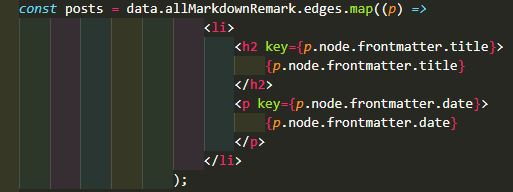
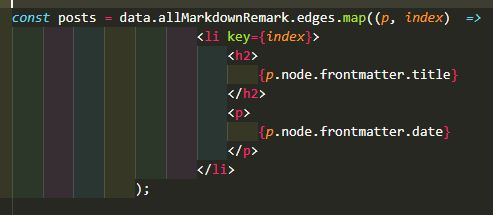
Grab slug for each blog post

diff --git a/src/pages/blog.js b/src/pages/blog.js
@@ -18,22 +18,25 @@ const BlogPage = () => {
             }
         }
     `)
-    const posts = data.allMarkdownRemark.edges.map((p) => 
-                            <li>
-                                <h2 key={p.node.frontmatter.title}>
+    
+    const posts = data.allMarkdownRemark.edges.map((p, index)  => 
+                            <li key={index}>
+                                <h2>
                                     {p.node.frontmatter.title}
                                 </h2>
-                                <p key={p.node.frontmatter.date}>
+                                <p>
                                     {p.node.frontmatter.date}
                                 </p>
                             </li>
-                        );
+                    );
+
     return (
             <Layout>
                 <h1>A blog about the blog</h1>
                 <ol>
                     {posts}
                 </ol>
+
             </Layout>
             
     )

diff --git a/src/components/header.js b/src/components/header.js
@@ -27,13 +27,13 @@ const Header = () => {
                         <Link to="/" className={headerStyles.navItem} activeClassName={headerStyles.activeNavItem}>Home</Link>
                     </li>
                     <li>
+                        <Link to="/blog" className={headerStyles.navItem} activeClassName={headerStyles.activeNavItem}>Blog</Link>
+                    </li>
+                    <li>
                         <Link to="/about" className={headerStyles.navItem} activeClassName={headerStyles.activeNavItem}>About</Link>
                     </li>
                     <li>
                         <Link to="/contact" className={headerStyles.navItem} activeClassName={headerStyles.activeNavItem}>Contact</Link>
-                    </li>
-                    <li>
-                        <Link to="/blog" className={headerStyles.navItem} activeClassName={headerStyles.activeNavItem}>Blog</Link>
                     </li>
                 </ul>
             </nav>

diff --git a/gatsby-node.js b/gatsby-node.js
@@ -1,7 +1,15 @@
-/**
- * Implement Gatsby's Node APIs in this file.
- *
- * See: https://www.gatsbyjs.com/docs/node-apis/
- */
+const path = require('path')
 
-// You can delete this file if you're not using it
+module.exports.onCreateNode = ({ node, actions }) => {
+    const { createNodeField } = actions
+
+    if(node.internal.type === 'MarkdownRemark') {
+        const slug = path.basename(node.fileAbsolutePath, '.md')
+        
+        createNodeField({
+            node,
+            name: 'slug',
+            value: slug
+        })
+    }
+}

diff --git a/src/posts/listposts.md b/src/posts/listposts.md
@@ -9,15 +9,15 @@ Now that I have some blog posts created and the ability to pull and convert them
 
 Using GraphQL Playground I laid out the necessary query to grab the date and title of each blog post.
 To do this I created a const variable called data and using the 'graphql' and 'useStaticQuery' hooks, provided by Gatsby (making sure to first import them from Gatsby at the top of the page),
-I wrote out the query, pictured below.
+I wrote out the query using a template literal, pictured below.
 
 ![Data Query](./images/data-query.jpg)
 
 This allowed me to pull the post title and date to render them in an ordered list on the main blog page.
 Before I was able to display them I first had to map the data to be rendered for each item in the list.
-For this I created another const variable called 'posts' and used the map function on the 'edges' array in the query and saved that under a parameter.
+For this I created another const variable called 'posts' to iterate over the 'edges' array in the query, used the map function to convert it to JSX and saved that under a parameter.
 Using an arrow function I created an li for each post in the array, each li having a h2 tag for the title and a p tag for the date.
-I provided unique keys for the the h2 and p tags to help React identify each element, then using that key I put the title and date to be rendered in their respective tags.
+I used a key of 'index' for the li to help React identify each element, then I put the title and date to be rendered in their respective tags.
 
 ![Data Map](./images/data-map.jpg)
 

diff --git a/src/posts/viewposts.md b/src/posts/viewposts.md
@@ -1,0 +1,20 @@
+---
+title: "Displaying Blog Posts"
+date: "2020-12-09"
+---
+
+## How I rendered blog post pages!
+
+To achieve rendering a page for each blog post I had to make use of the [Gatsby Node APIs](https://www.gatsbyjs.com/docs/node-apis/).
+
+First I had to generate a 'slug' for each blog post which turned the post file name into a string and which can be added at the end of the site blog url.
+In the onCreateNode (from the Gatsby Node APIs) configuration I set up an if statement to target nodes only when the node internal type is 'MarkdownRemark', which is the type for the blog posts.
+Inside the if statement I added a console log to view each post object and utilised the JSON stringify method to convert the object into a JSON string to be able to read it easier.
+I created a new const variable inside the if statement and using the path.basename method from Node Js, I then extracted the blog post slug from fileAboslutePath.
+Then using createNodeField from the onCreateNode API I'm able to use the slug for each blog post.
+
+![Grab Slug](./images/grab-slug.jpg)
+
+I then had to generate the post page template.
+
+Lastly I had to generate a new page for each blog post.
